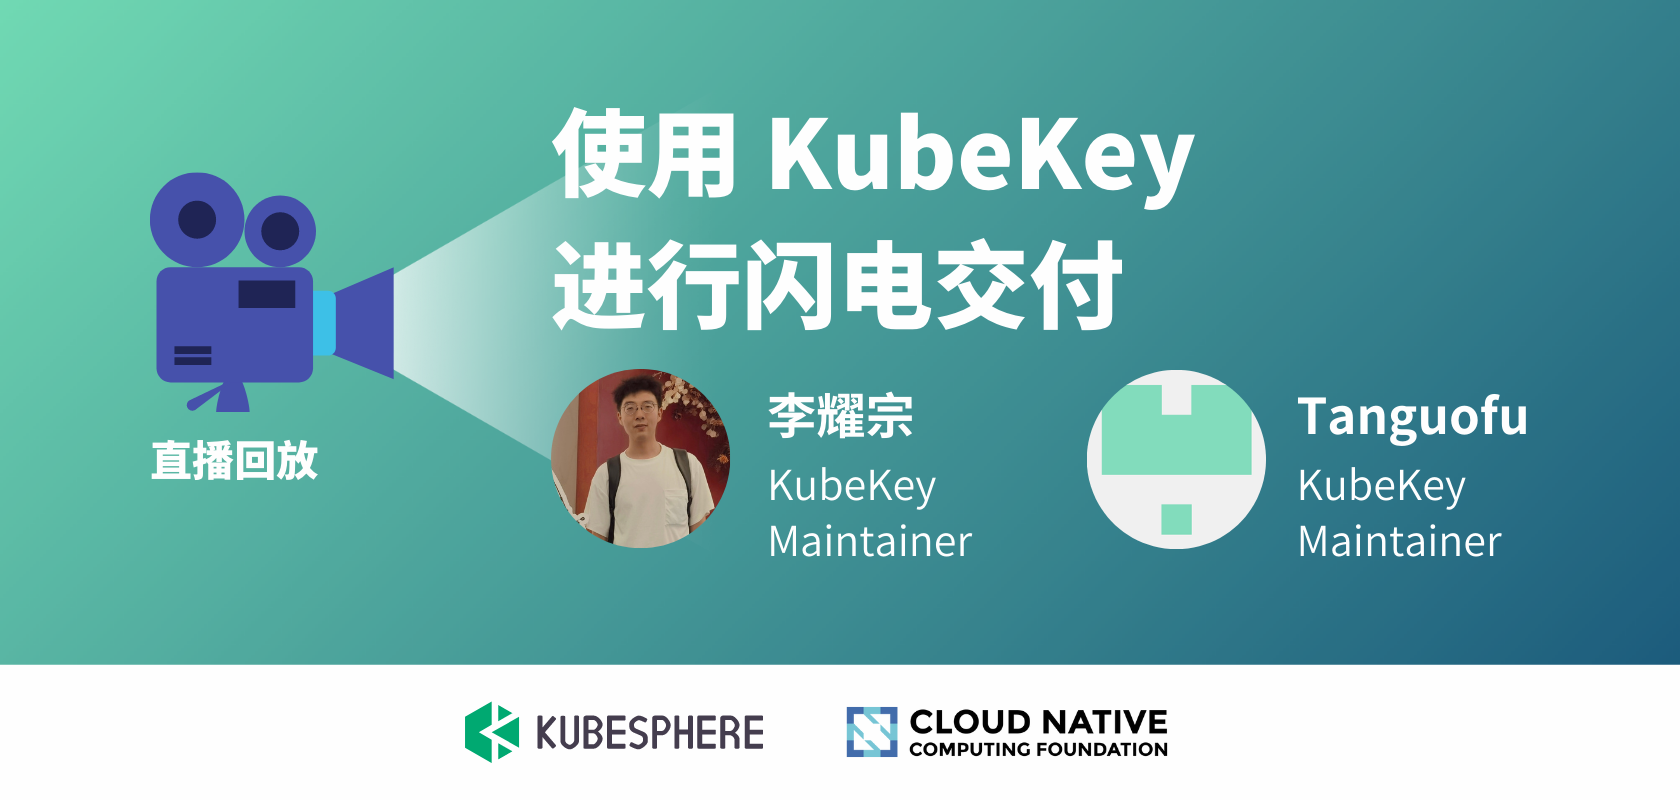
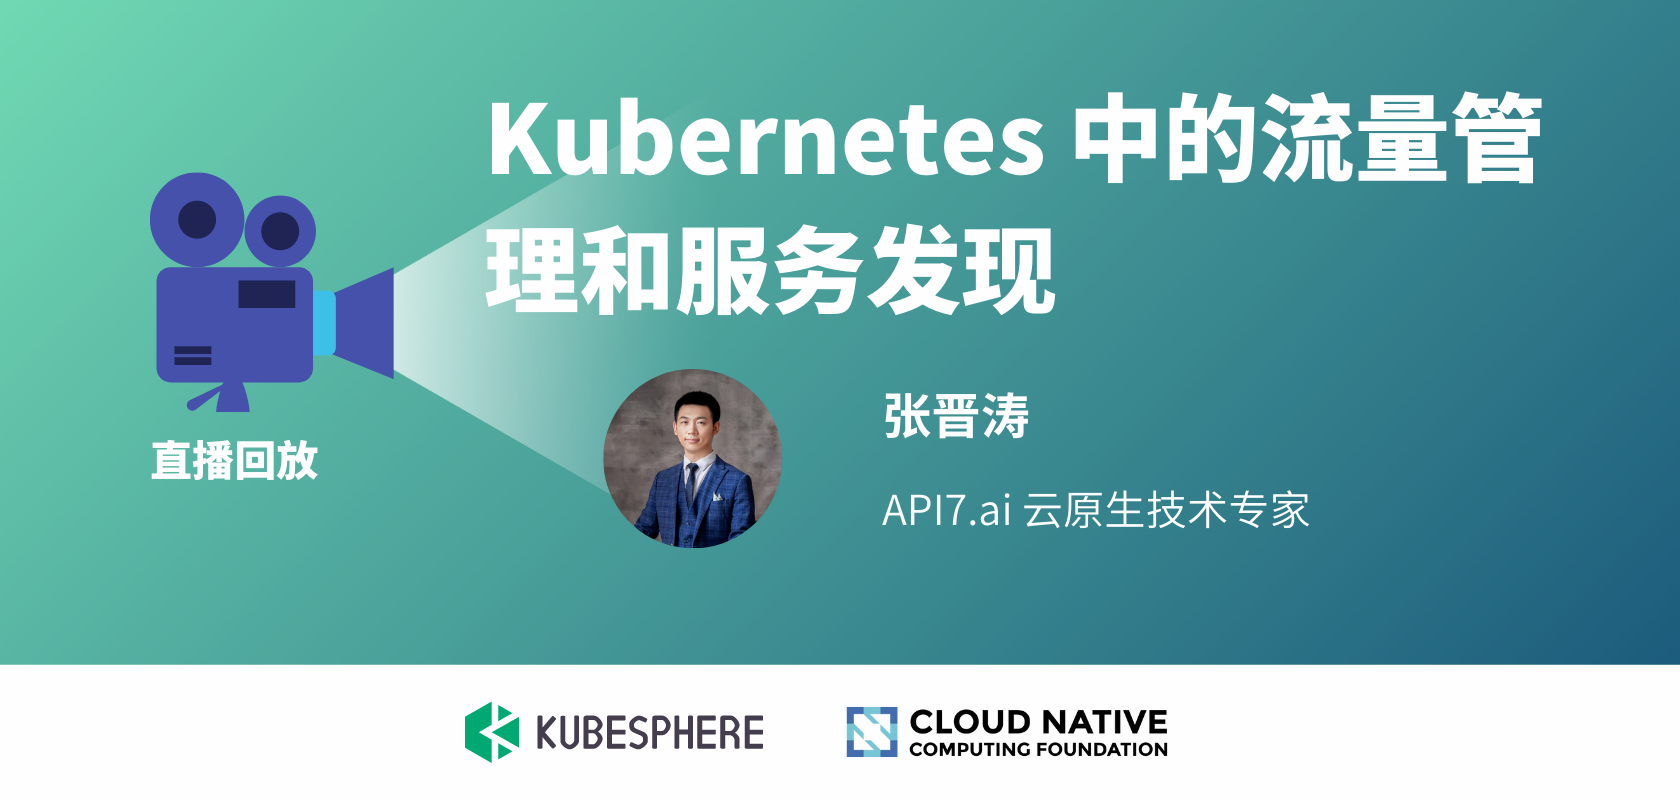
update the page of live

diff --git a/content/zh/live/k8s-apisix-openelb0406-live.md b/content/zh/live/k8s-apisix-openelb0406-live.md
@@ -6,7 +6,7 @@ css: scss/live-detail.scss
 
 section1:
   snapshot: 
-  videoUrl: 
+  videoUrl: //player.bilibili.com/player.html?aid=595467251&bvid=BV1iq4y1a78Q&cid=569257329&page=1&high_quality=1
   type: iframe
   time: 2022-04-06 20:00-21:00
   timeIcon: /images/live/clock.svg
@@ -32,3 +32,48 @@ section1:
 ## 直播地址
 
 B 站  http://live.bilibili.com/22580654
+
+## PPT 下载
+
+可扫描官网底部二维码，关注 「KubeSphere云原生」公众号，后台回复 `20220406` 即可下载 PPT。
+
+## Q & A 
+
+### Q1：KubeSphere 目前的网关功能默认开启是 Nginx Ingress，是否把默认的换成 APISIX，目前安装 APISIX controller 后，无法在 KubeSphere console 的网关中看到，并通过 KubeSphere console 来管理应用路由和网关，有计划吗？
+
+A：这里有两篇文章可供参考：
+- [使用 Apache APISIX 作为 Kubernetes 的 Ingress Controller](https://kubesphere.io/zh/blogs/kubesphere-apacheapisix/)
+- [在 KubeSphere 中安装和使用 Apache APISIX Ingress 网关](https://kubesphere.io/zh/blogs/use-apache-apisix-ingress-in-kubesphere/)
+
+需要注意的是，如果集群中有多个 ingress controller 同时存在，那么需要注意通过 IngressClass 进行区分。
+
+### Q2：Apache APISIX 与 Nginx 相比有什么优势？
+
+A：这里有一篇文章详细的做了介绍：
+[有了 NGINX 和 Kong，为什么还需要 Apache APISIX](https://www.apiseven.com/blog/why-we-need-Apache-APISIX)。
+
+### Q3：KubeSphere 应用商店是否包含 APISIX？
+
+A：包含的。
+
+### Q4：OpenELB 在虚拟机上实验，可以分配到 IP,但是无法正常访问，是不是虚拟机环境有要求或什么限制，在同一网段？
+
+A：需要看你具体环境中路由是否通，能分配 IP，那么 OpenELB 的基本任务已经完成了。
+
+### Q5：APISIX 是否可以和 KubeSphere 共用一个 Etcd 呢？后续是否会支持？
+
+
+A：可以，但是不建议共用。可以避免爆炸半径过大。
+
+
+### Q6：OpenELB 可以用在生产环境吗？
+
+
+A：可以，[官网](https://porterlb.io/about/)上已经有一些生产环境的案例。
+
+### Q7：APISIX 是以什么方式对外暴露的？
+
+
+A：通过 NodePort 或者 LoadBalancer 等方式，也可以共享 Node 的网络堆栈，使用 HostNetwork 的方式暴露。
+
+

diff --git a/content/zh/live/iot0414-live.md b/content/zh/live/iot0414-live.md
@@ -1,0 +1,35 @@
+---
+title: 5G + IoT 场景下云原生的应用与思考
+description: 本期将分享中国移动 5G 和 IoT 相关产品与云原生的结合以及优秀应用案例分享。
+keywords: KubeSphere, Kubernetes, IoT, 5G, 云原生
+css: scss/live-detail.scss
+
+section1:
+  snapshot: 
+  videoUrl: 
+  type: iframe
+  time: 2022-04-14 20:00-21:00
+  timeIcon: /images/live/clock.svg
+  base: 线上
+  baseIcon: /images/live/base.svg
+---
+## 分享内容简介
+
+近日，全球物联网知名研究机构 IoT Analytics 发布了《2022 年值得关注的 10 大物联网技术趋势》，其中之一就是物联网场景下云原生应用正在兴起。当前，随着国内 5G 大规模商用，势必会加速 CT、IT 和 OT 相互融合，云原生作为 IT 领域优秀的基础设施，对以 5G 为代表的 CT 领域带来巨大改变，本期将分享中国移动 5G 和 IoT 相关产品与云原生的结合以及优秀应用案例分享。
+
+## 讲师简介
+
+姜仁杰，现就职于中移物联网有限公司，担任 5G 专网产品部副总经理，负责中国移动 5G 专网平台和应用研发。姜仁杰先后负责过公司云原生研发基础设施，IoT 物联网平台、边缘计算等产品和研发工作，对云原生在 IoT 领域应用实践有丰富经验。
+
+## 分享大纲
+
+![](https://pek3b.qingstor.com/kubesphere-community/images/iot0414-live.png)
+
+## 直播时间
+
+2022 年 04 月 14 日 20:00-21:00
+
+## 直播地址
+
+B 站  http://live.bilibili.com/22580654
+

diff --git a/content/zh/live/_index.md b/content/zh/live/_index.md
@@ -10,22 +10,29 @@ section1:
 
 section2:
   image: /images/live/cloudnative-live-banner.png
-  url: ./kubekey0331-live/
+  url: ./k8s-apisix-openelb0406-live/
 
   notice:
-    title: Kubernetes 中的流量管理和服务发现
+    title: 5G + IoT 场景下云原生的应用与思考
     tag: 预告
-    time: 2022 年 04 月 06 日晚 8 点
+    time: 2022 年 04 月 14 日晚 8 点
     base: 线上
-    url: ./k8s-apisix-openelb0406-live/
+    url: ./iot0414-live/
 
   over:
-    title: 使用 KubeSphere 快速部署开源向量数据库 Milvus 2.0
-    url: ./milvus0324-live/
+    title: 使用 KubeKey 进行闪电交付
+    url: ./kubekey0331-live/
     tag: 结束
 
 section3:
   videos:
+    - title: Kubernetes 中的流量管理和服务发现
+      link: ./k8s-apisix-openelb0406-live/
+      snapshot: https://pek3b.qingstor.com/kubesphere-community/images/k8s-apisix-openelb0406-live-cover.png
+      type: iframe
+      createTime: 2022.04.06
+      group: 直播回放 
+
     - title: 使用 KubeKey 进行闪电交付
       link: ./kubekey0331-live/
       snapshot: https://pek3b.qingstor.com/kubesphere-community/images/kubekey0331-live-cover.png
